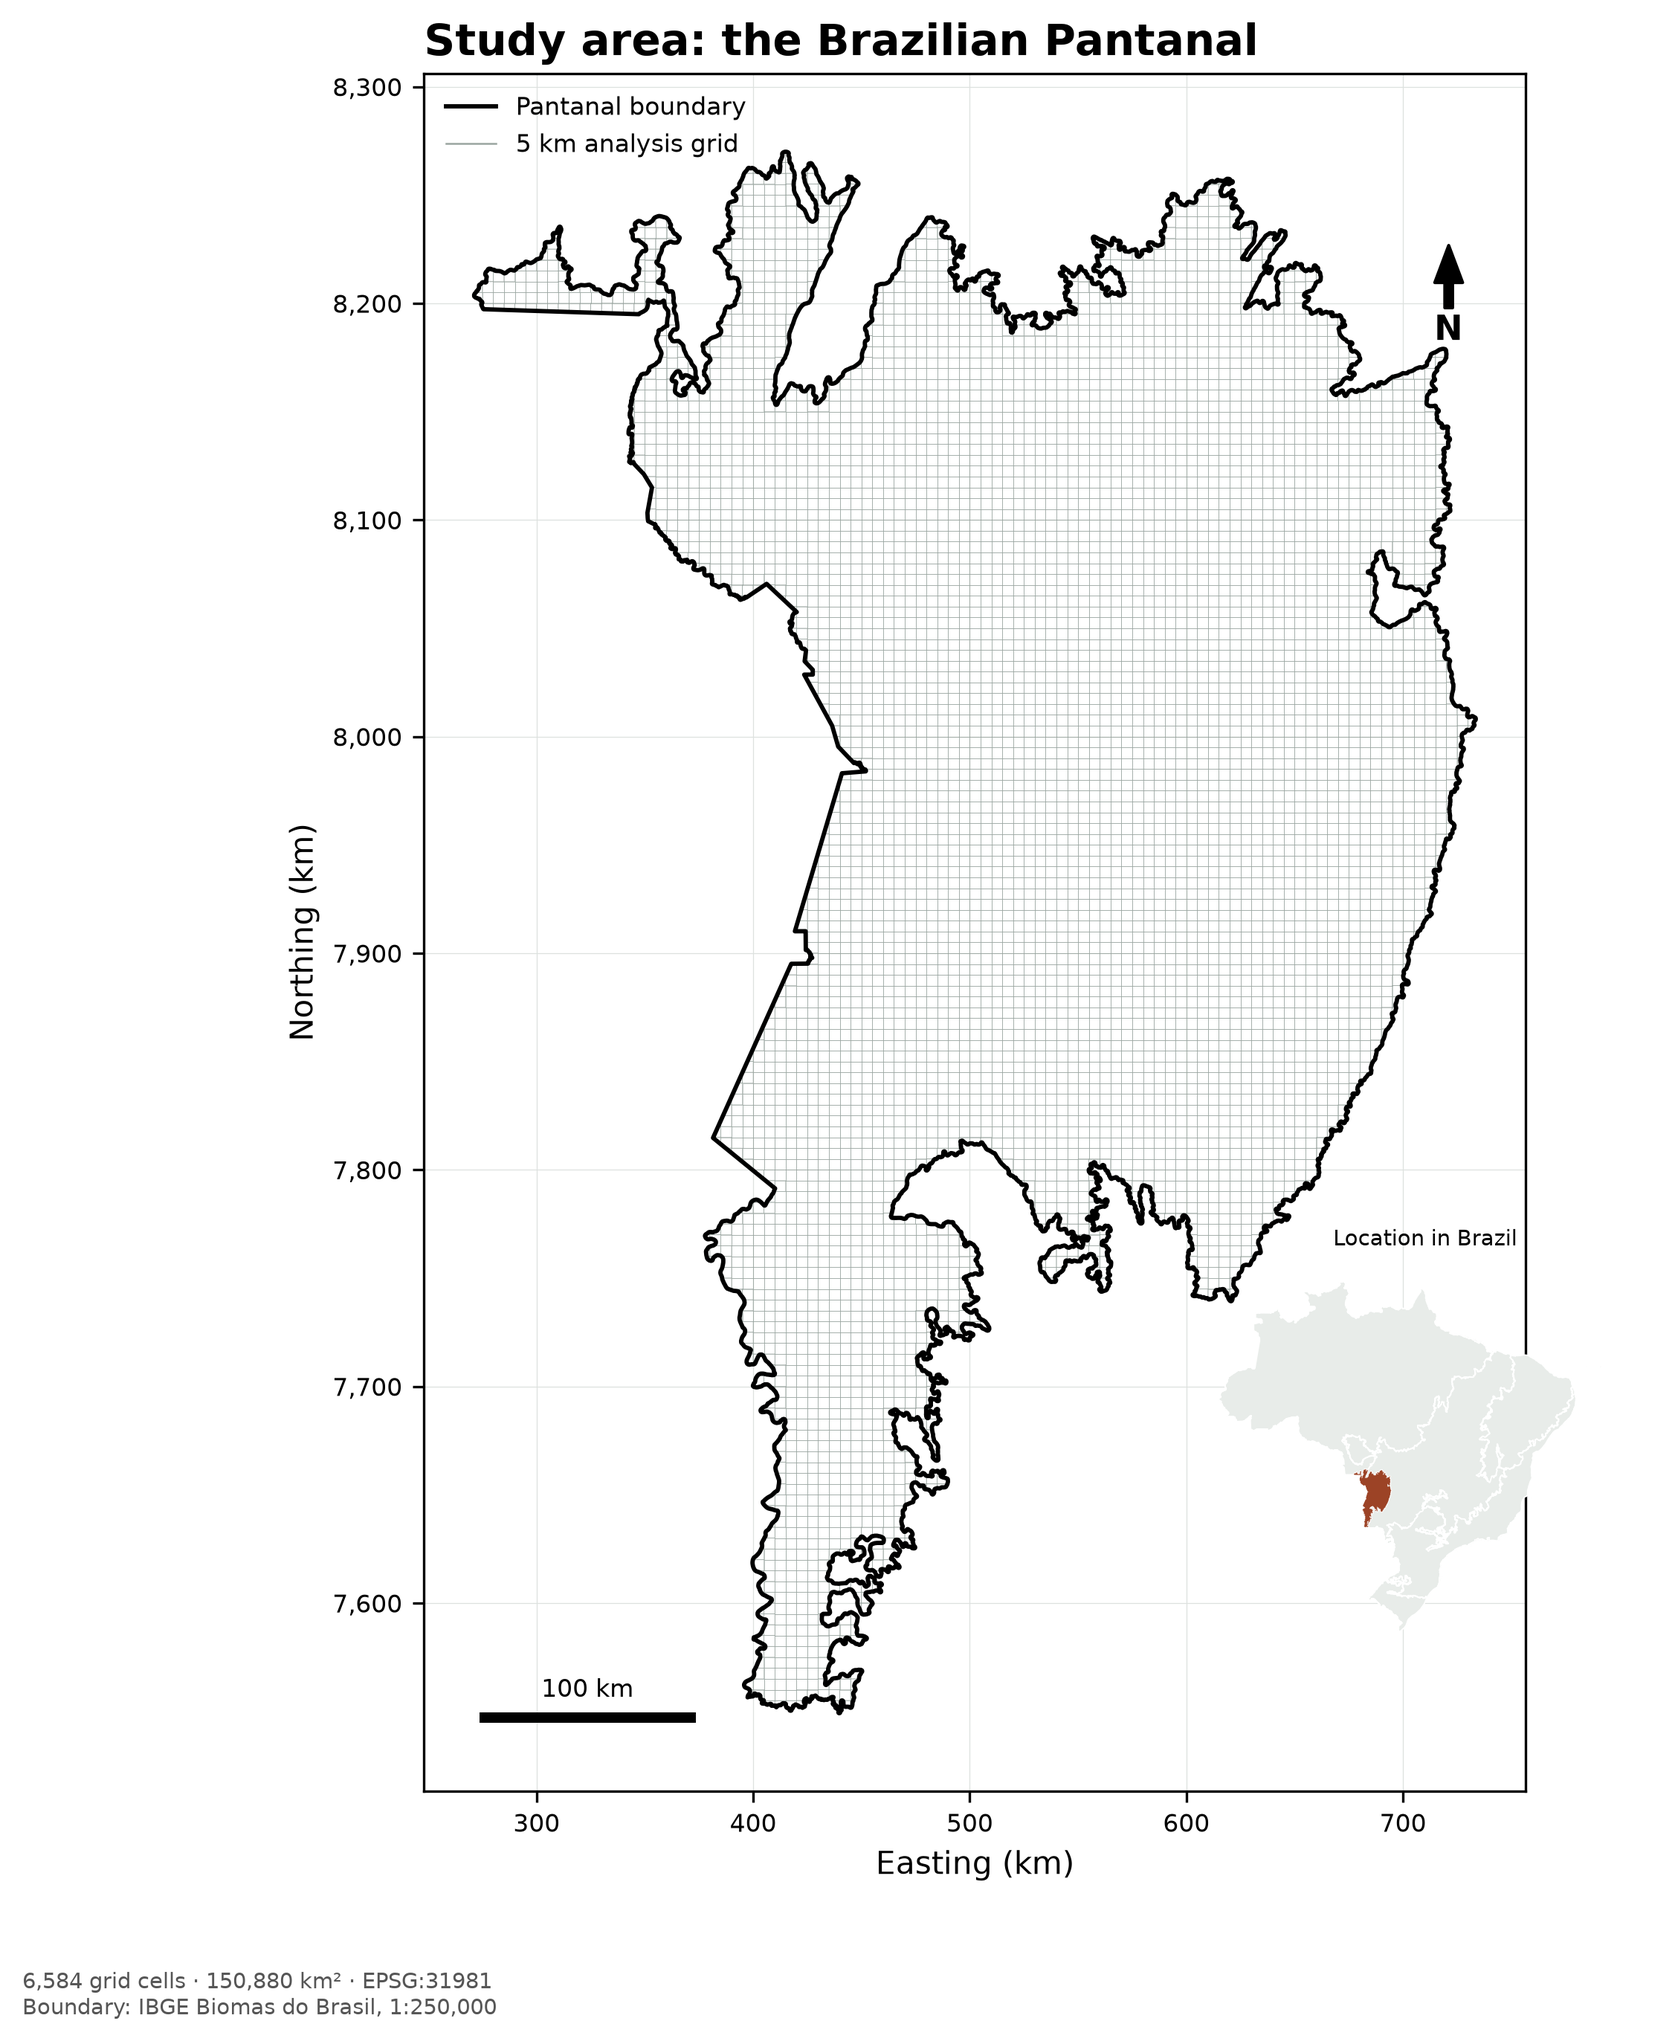
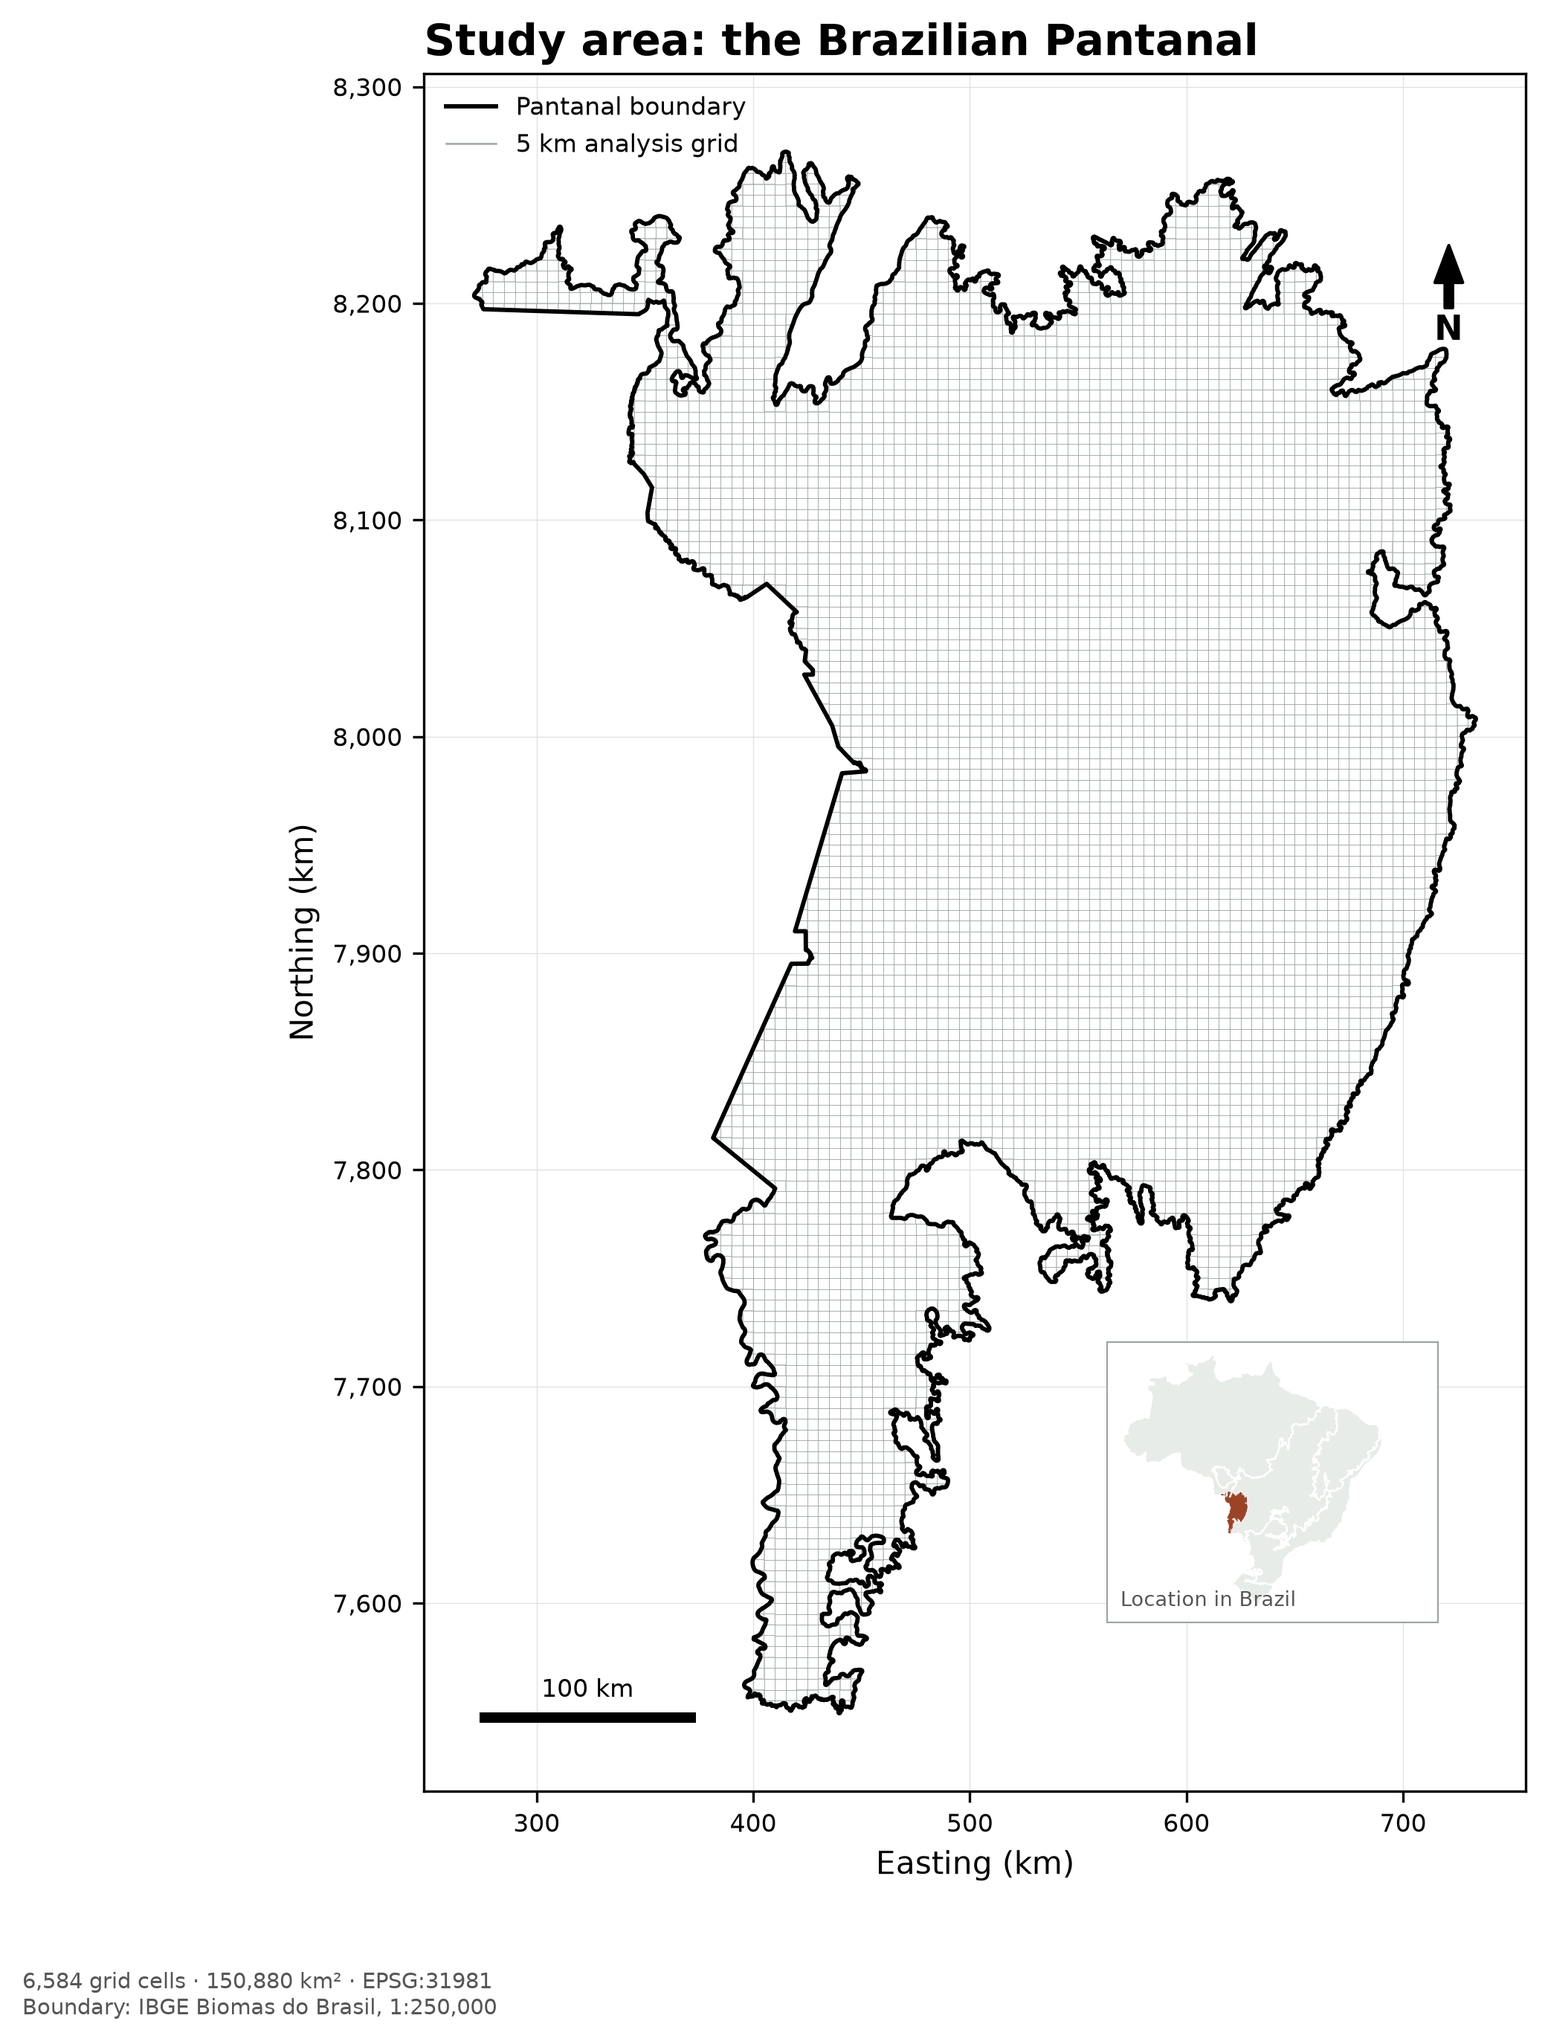
Add 02_fire.py: VIIRS detections to cell-month panel
553,056 rows, 6,584 cells x 7 years x 12 months. 548,871 detections
inside the Pantanal after dropping type 2 and 3. Prevalence 4.76%
overall, peaking in September, 2020 highest and 2025 lowest.
Detection rate rises 12-fold with cell area, 2.4-fold after dividing
by area: evidence for the minimum-area rule applied in 07_panel.py.

diff --git a/02-Code/02_fire.py b/02-Code/02_fire.py
@@ -1,0 +1,176 @@
+#----------------------------------------------------------------------------------------
+# This script is used to turn the VIIRS detection CSV into the project's response 
+# variable: one row per cell per month, with a fire count and a binary flag.
+#----------------------------------------------------------------------------------------
+#---Libraries Part 1---
+import pandas as pd  # the CSV and the panel
+import geopandas as gpd  # points and the spatial join
+import matplotlib.pyplot as plt # for plotting the checks
+
+#---Libraries Part 2---
+#Load in the configuration file to ensure that all
+# paths and parameters are consistent across scripts.
+import importlib.util
+from pathlib import Path
+
+spec = importlib.util.spec_from_file_location(
+    "config", Path(__file__).resolve().parent / "00_config.py"
+)
+cfg = importlib.util.module_from_spec(spec)
+spec.loader.exec_module(cfg)
+#----------------------------------------------------------------------------------------
+
+#---Read in data ---
+firms = pd.read_csv(cfg.INPUTS["firms"])  # Plain CSV, not spatial
+
+# Inspect the columns and value counts 
+print(firms.columns)
+print(firms["type"].value_counts())
+print(firms["confidence"].value_counts())
+print(firms["instrument"].value_counts())
+print(firms["satellite"].value_counts())
+
+#---Load the grid built in 01_grid.py---
+grid = gpd.read_file(cfg.OUTPUTS["grid"], layer="grid")
+
+#---Keep only real vegetation fires---
+# The satellite flags what kind of hot spot it saw:
+#   0 = a vegetation fire, what we want
+#   2 = a permanent heat source on land, like a gas flare or a factory.
+#       These show up in the same place every single month, so the model
+#       would learn that spot is always on fire. We drop them.
+#   3 = a hot spot over water. Not a fire. We drop these too.
+#
+# The satellite also rates how sure it is: low, nominal or high.
+# We keep all three for now. Dropping the low ones is a judgement call,
+# so instead of guessing we test it later in the sensitivity analysis.
+before = len(firms)
+firms = firms[firms["type"] == 0].copy()
+print(f"type filter: {before:,} -> {len(firms):,} detections")
+
+#---Keep only detections near the Pantanal---
+# The file covers all of Brazil. Building 9.8 million points and joining
+# them all is slow and uses a lot of memory. The grid's bounding box in
+# lat/lon throws away most of the country in one cheap step, before any
+# geometry is built. The spatial join below does the exact cut.
+before = len(firms)
+bounds = grid.to_crs("EPSG:4326").total_bounds  # minx, miny, maxx, maxy
+firms = firms[
+    firms["longitude"].between(bounds[0], bounds[2]) &
+    firms["latitude"].between(bounds[1], bounds[3])
+].copy()
+print(f"bounding box: {before:,} -> {len(firms):,} detections")
+
+#---Extract year and month from acquisition date---
+firms["acq_date"] = pd.to_datetime(firms["acq_date"])
+firms["year"] = firms["acq_date"].dt.year
+firms["month"] = firms["acq_date"].dt.month
+
+#---Convert the CSV to a GeoDataFrame---
+firms_gdf = gpd.GeoDataFrame(
+    firms,
+    geometry=gpd.points_from_xy(firms.longitude, firms.latitude),
+    crs="EPSG:4326"
+)  # FIRMS is always WGS84
+
+#Reproject the GeoDataFrame to the defined CRS for the project, which is in meters.
+firms_gdf = firms_gdf.to_crs(cfg.CRS)  
+
+#---Spatial join with the grid---
+firms_gdf = gpd.sjoin(firms_gdf,               
+                      grid[["ID","geometry"]],
+                       predicate="within")  # Drops everything outside the Pantanal
+
+#---Check what the Pantanal itself contains---
+# The counts printed at the top were for all of Brazil. The mix inside the
+# biome can be different, and that is the number worth recording.
+print("detections inside the Pantanal:", f"{len(firms_gdf):,}")
+print(firms_gdf["confidence"].value_counts())
+
+#---Count the number of fires per cell per month---
+firms_count = firms_gdf.groupby(["ID","year","month"]).size()
+
+#---Complete the panel by reindexing to include all combinations of grid cell, year and month---
+# groupby only produces rows where a fire happened. A cell with no fire in a
+# given month simply does not exist yet. Without this step every row would be
+# a fire and the model would have nothing to learn from.
+years = range(2019, cfg.VAL_YEAR + 1)  #Range is exclusive of the stop value, so we add 1 to include the last year.
+
+full = pd.MultiIndex.from_product( #this creates a MultiIndex with all combinations of the three levels.
+    [grid["ID"], years, range(1, 13)],
+    names=["ID", "year", "month"], 
+)
+
+ #---This will fill in any missing combinations with a count of 0, 
+ # so that the model sees that there were no fires in those cells and months---  
+firms_count = firms_count.reindex(full, fill_value=0)
+
+#---Build the final table: one row per cell per month---
+# Keep the count as well as the flag. The count is needed later for the
+# previous-month fire predictors and for descriptive maps.
+panel = firms_count.rename("fire_count").reset_index()
+panel["fire_binary"] = (panel["fire_count"] > 0).astype(int)
+
+#--Final checks --
+print("rows:", len(panel), "expected:", len(grid) * len(years) * 12)
+print("cell-months with fire:", panel["fire_binary"].sum())
+print("prevalence:", panel["fire_binary"].mean())
+
+#---Does a small cell record fewer fires just because it is small?---
+# This is the evidence to drop cells later with the minimum-area rule. Two tests:
+#
+# 1. Detection rate by cell size. If small cells record fewer fires, either
+#    they are safer, or there is simply less ground on which to see a fire.
+#
+# 2. The same thing divided by area. If dividing by area flattens the pattern,
+#    then the first table was mostly about exposure, not about fire risk.
+#
+# What we found: the raw rate rises about 12-fold with cell size, and dividing
+# by area cuts that to about 2.4-fold. So most of the gap is exposure, but a
+# smaller real difference remains, which fits the different land cover and
+# terrain at the edge of the biome. Either way, edge cells are not comparable
+# to full cells. The cut-off itself is applied in 07_panel.py.
+chk = panel.merge(grid[["ID", "area_km2"]], on="ID")
+chk["area_bin"] = pd.cut(chk["area_km2"], [0, 1, 5, 12.5, 20, 25])
+chk["rate_per_km2"] = chk["fire_count"] / chk["area_km2"]
+
+print(chk.groupby("area_bin", observed=True)["fire_binary"].mean())
+print(chk.groupby("area_bin", observed=True)["rate_per_km2"].mean())
+
+#---Plot to have a visual reference--
+chk["bin_mid"] = pd.cut(chk["area_km2"], bins=25).apply(lambda b: b.mid)
+by_size = chk.groupby("bin_mid", observed=True)[["fire_binary", "rate_per_km2"]].mean()
+
+fig, ax = plt.subplots(figsize=(7, 4))
+
+ax.plot(by_size.index, by_size["fire_binary"], color="#15594d",
+        marker="o", markersize=3, label="Share of months with a fire")
+ax.plot(by_size.index, by_size["rate_per_km2"], color="#9c4326",
+        marker="o", markersize=3, linestyle="--", label="Detections per km²")
+
+# Candidate cut-off: half of a full cell.
+ax.axvline(12.5, color="#555", linewidth=1, linestyle=":")
+ax.text(12.5, ax.get_ylim()[1], " candidate cut-off\n 12.5 km²",
+        ha="left", va="top", fontsize=8, color="#555")
+
+ax.set_xlabel("Cell area (km²)")
+ax.set_ylabel("Mean per cell-month")
+ax.set_title("Small cells record fewer fires, mostly because they cover less ground",
+             fontsize=11, loc="left")
+ax.legend(fontsize=8, frameon=False)
+ax.spines[["top", "right"]].set_visible(False)
+fig.tight_layout()
+
+fig.savefig(cfg.OUTPUTS["figures"] / "fire_rate_by_cell_area.png", dpi=300)
+plt.show()
+
+#---Seasonal and yearly pattern---
+# A sanity check on the data. Fires should peak in the dry season,
+# August to October, and 2020 was a well documented extreme fire year.
+print(panel.groupby("month")["fire_binary"].mean())
+print(panel.groupby("year")["fire_binary"].mean())
+
+#Save the panel to a parquet file for later use in the panel model.
+#Parquet is a very efficient format for storing large datasets,
+#  and it preserves the data types and structure of the DataFrame.
+panel.to_parquet(cfg.OUTPUTS["fire"], index=False)

diff --git a/02-Code/01_grid.py b/02-Code/01_grid.py
@@ -136,7 +136,6 @@ path = cfg.OUTPUTS["grid"]
 grid.to_file(path, layer="grid", driver="GPKG")
 
 
-
 #---Study area map---
 
 # Pantanal is taller than it is wide.
@@ -200,14 +199,25 @@ fig.text(0.01, 0.01,
 #---Locator inset---
 # A small second map showing where the Pantanal sits among Brazil's biomes.
 # The four numbers are [left, bottom, width, height] as fractions of the figure.
-axin = fig.add_axes([0.63, 0.14, 0.24, 0.24])
+#---Locator inset---
+axin = ax.inset_axes([0.62, 0.06, 0.30, 0.24])
+axin.set_facecolor("white")
 biome.to_crs(cfg.CRS).plot(ax=axin, facecolor="#e8ece9", edgecolor="white", linewidth=0.4)
 pantanal.plot(ax=axin, facecolor="#9c4326", edgecolor="none")
-axin.set_axis_off()
-axin.set_title("Location in Brazil", fontsize=7)
+axin.set_aspect("equal")
+axin.set_xticks([]); axin.set_yticks([])
+for s in axin.spines.values():
+    s.set_linewidth(0.5)
+    s.set_edgecolor("#9aa5a0")
+
+# Label inside the box, bottom left, over empty ocean space.
+axin.text(0.04, 0.04, "Location in Brazil", transform=axin.transAxes,
+          ha="left", va="bottom", fontsize=6.5, color="#555")
+#show plot
+plt.show()
 
 #---Save---
-# 300 dpi because this goes on a printed poster.
+# Save before show: plt.show() closes the figure.
 plt.savefig(cfg.OUTPUTS["figures"] / "study_area.png", dpi=300, bbox_inches="tight")
-#clean all plots
-plt.close('all')
+
+plt.show()

diff --git a/02-Code/00_config.py b/02-Code/00_config.py
@@ -32,6 +32,7 @@ INPUTS = {
 # ---- Outputs ----
 OUTPUTS = {
     "grid": PROCESSED / "grid.gpkg",
+    "fire": PROCESSED / "fire_month.parquet",
     "figures": OUTPUT / "figures",
 }
 

diff --git a/README.md b/README.md
@@ -1,57 +1,57 @@
 # Pantanal-on-Fire
 ### GEOG 654
-### Daylan Salmeron 
+### Daylan Salmeron
 
 ## Planned workflow
 
-Proposed pipeline. Scripts 00 and 01 are built; the rest is a plan and will change as the project develops.
+This is the plan I am working to. Scripts 00, 01 and 02 are built. The rest will change as I go.
 
 ```text
 03-Data/  (raw, not tracked)
 │
 ├── IBGE Biomes ───────────→ study boundary
-├── NASA FIRMS VIIRS ──────→ fire response
+├── NASA FIRMS VIIRS ──────→ fires
 ├── CHIRPS v3 ─────────────→ rainfall
 ├── CHIRTS-ERA5 ───────────→ maximum temperature
 ├── MapBiomas Collection 11 → land cover
-├── MapBiomas Water ───────→ inundation
-└── OpenStreetMap ─────────→ roads and waterways
+├── MapBiomas Water ───────→ flooding
+└── OpenStreetMap ─────────→ roads and rivers
                 │
                 ▼
-02-Code/  one script per stage, each reading only the stage before it
+02-Code/  one script per step, each one picking up where the last left off
 
-  00_config.py      paths, CRS, constants, input check
-  01_grid.py        5 km grid clipped to the Pantanal      → grid.gpkg
-  02_fire.py        VIIRS detections per cell per month    → fire_month.parquet
-  03_climate.py     CHIRPS and Tmax sampled to cells       → climate_month.parquet
-  04_water.py       monthly surface water per cell         → water_month.parquet
-  05_landcover.py   annual class shares per cell           → landcover_year.parquet
-  06_access.py      distance to roads and waterways        → access.parquet
-  07_panel.py       join all, build lags, apply area rule  → panel.parquet
-  08_folds.py       spatial blocks and leave-one-year-out  → folds.parquet
+  00_config.py      paths, map projection, settings, checks the data is there
+  01_grid.py        5 km grid cut to the Pantanal          → grid.gpkg
+  02_fire.py        fires per cell per month               → fire_month.parquet
+  03_climate.py     rainfall and temperature per cell      → climate_month.parquet
+  04_water.py       how much of each cell is flooded       → water_month.parquet
+  05_landcover.py   what each cell is covered in           → landcover_year.parquet
+  06_access.py      distance to the nearest road and river → access.parquet
+  07_panel.py       join everything, add the lags          → panel.parquet
+  08_folds.py       split the data for testing             → folds.parquet
   09_train.py       Random Forest, 2019-2024               → model.joblib
-  10_evaluate.py    baselines, metrics, intervals, calibration
-  11_experiments.py ablation and sensitivity
+  10_evaluate.py    how well it did, and how sure we are
+  11_experiments.py what happens if the choices were different
   12_figures.py     maps and plots
                 │
                 ▼
-04-Processed/  (generated, not tracked)
+04-Processed/  (made by the scripts, not tracked)
                 │
                 ▼
 05-Output/  figures, tables, reports
 ```
 
-### Rules
+### How the workflow is set up
 
-- Each script reads only the previous stage's output. Nothing after 06 touches raw data.
-- All lagged predictors are built in `07_panel.py`, never inside the model script.
-- The minimum cell-area cut-off is applied in `07_panel.py`, not baked into the grid, so it can be varied without rebuilding anything upstream.
-- Every script prints its row count and date range so a bad join is caught where it happens.
+- Each script only reads what the one before it produced. After 06, nothing goes back to the raw data.
+- The lagged variables are all built in `07_panel.py`, not inside the model.
+- The smallest cell size we keep is decided in `07_panel.py`, not in the grid itself. That way it can be changed without rebuilding everything.
+- Every script prints how many rows it made and what years it covers, so a bad join shows up straight away.
 
-### Unit of analysis
+### What one row means
 
 ```text
-one row = grid cell × year × target month
+one row = one grid cell, one year, one month
 ```
 
-Target months are August, September and October. Training runs on 2019-2024 and 2025 is held out.
+The months being predicted are August, September and October. The model learns from 2019 to 2024, and 2025 is held back to test it.
